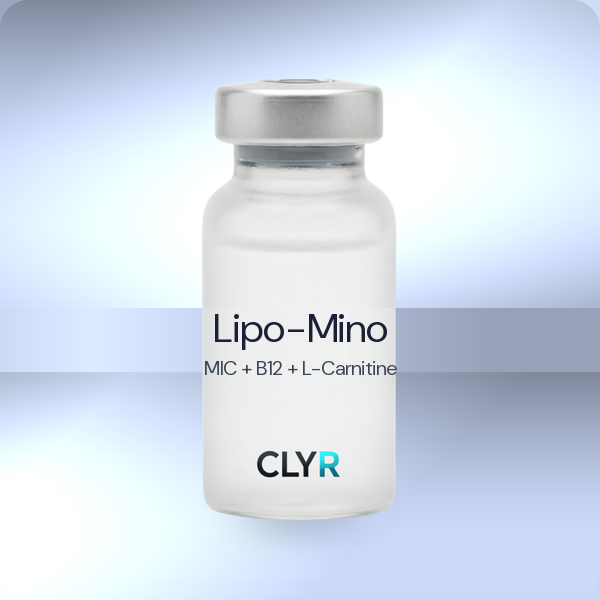
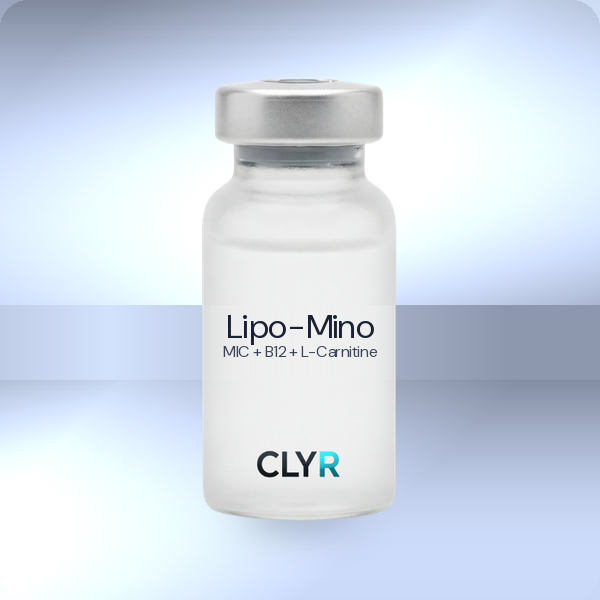
MICC/Lipo-Mino audit fixes (marketing): (1) Rolled canonical nav onto micc.html + lipo-mino.html (were on old drifted nav with Contact link, no megamenus, wrong Get Started URL); micc=daily-wellness active, lipo-mino=weight-loss active. (2) Added Lipo-Mino + L-Carnitine card to All Treatments (welln

Changed region(s): [[0.33, 0.51, 0.66, 0.63], [0.66, 0.51, 1.0, 0.54], [0.24, 0.51, 0.33, 0.54]]

diff --git a/micc.html b/micc.html
@@ -56,16 +56,57 @@
 
 <nav class="nav" id="nav">
   <div class="nav-inner">
-    <a href="/"><svg class="nav-logo" viewBox="0 0 120 32" fill="none" xmlns="http://www.w3.org/2000/svg"><text x="0" y="26" font-family="DM Sans, sans-serif" font-weight="700" font-size="28" letter-spacing="-1"><tspan fill="#1A1A1A">CLY</tspan><tspan fill="#00B4C5">R</tspan></text></svg></a>
+    <a href="/" aria-label="CLYR Health home">
+      <svg class="nav-logo" viewBox="0 0 120 32" fill="none" xmlns="http://www.w3.org/2000/svg" height="32">
+        <text x="0" y="26" font-family="DM Sans, sans-serif" font-weight="700" font-size="28" letter-spacing="-1"><tspan fill="#1A1A1A">CLY</tspan><tspan fill="#00B4C5">R</tspan></text>
+      </svg>
+    </a>
     <div class="nav-links">
-      <a href="/weight-loss.html">Weight Loss</a>
-      <a href="/wellness.html#wellness">Daily Wellness</a>
-      <a href="/sexual-health.html">Sexual Health</a>
-      <a href="/journal/">Journal</a><a href="/contact.html">Contact</a>
+      <div class="nav-item" data-nav="weight-loss">
+        <a href="/weight-loss.html">Weight Loss <svg class="chev" width="10" height="10" viewBox="0 0 24 24" fill="none" stroke="currentColor" stroke-width="3" stroke-linecap="round"><polyline points="6 9 12 15 18 9"/></svg></a>
+        <div class="megamenu">
+          <div class="mm-grid">
+            <a href="/tirzepatide.html" class="mm-link"><img src="/img/tirzepatide.png" alt=""><span class="mm-link-text"><strong>Tirzepatide</strong><span>GLP-1 + GIP</span></span></a>
+            <a href="/semaglutide.html" class="mm-link"><img src="/img/semaglutide.png" alt=""><span class="mm-link-text"><strong>Semaglutide</strong><span>GLP-1</span></span></a>
+            <a href="/lipo-mino.html" class="mm-link"><img src="/img/vial-lipo-mino-new.png" alt=""><span class="mm-link-text"><strong>Lipo-Mino + L-Carnitine</strong><span>Fat metabolism</span></span></a>
+            <a href="/foundayo.html" class="mm-link"><img src="/img/foundayo-bottle.png" alt=""><span class="mm-link-text"><strong>Foundayo&reg;</strong><span>Oral GLP-1</span></span></a>
+          </div>
+          <div class="mm-footer"><span class="mm-count">Compounded &amp; brand-name options</span><a href="/weight-loss.html">Explore Weight Loss →</a></div>
+        </div>
+      </div>
+      <div class="nav-item nav-active" data-nav="daily-wellness">
+        <a href="/daily-wellness.html">Daily Wellness <svg class="chev" width="10" height="10" viewBox="0 0 24 24" fill="none" stroke="currentColor" stroke-width="3" stroke-linecap="round"><polyline points="6 9 12 15 18 9"/></svg></a>
+        <div class="megamenu">
+          <div class="mm-grid">
+            <a href="/nad.html" class="mm-link"><img src="/img/nad.png" alt=""><span class="mm-link-text"><strong>NAD+ Injections</strong><span>Cellular energy</span></span></a>
+            <a href="/sermorelin.html" class="mm-link"><img src="/img/sermorelin.png" alt=""><span class="mm-link-text"><strong>Sermorelin</strong><span>Growth hormone peptide</span></span></a>
+            <a href="/glutathione.html" class="mm-link"><img src="/img/glutathione.png" alt=""><span class="mm-link-text"><strong>Glutathione</strong><span>Antioxidant</span></span></a>
+            <a href="/micc.html" class="mm-link"><img src="/img/micc.png" alt=""><span class="mm-link-text"><strong>MICC + B12</strong><span>Metabolic support</span></span></a>
+          </div>
+          <div class="mm-footer"><span class="mm-count">4 wellness treatments</span><a href="/daily-wellness.html">Explore Wellness →</a></div>
+        </div>
+      </div>
+      <div class="nav-item" data-nav="sexual-health">
+        <a href="/sexual-health.html">Sexual Health <svg class="chev" width="10" height="10" viewBox="0 0 24 24" fill="none" stroke="currentColor" stroke-width="3" stroke-linecap="round"><polyline points="6 9 12 15 18 9"/></svg></a>
+        <div class="megamenu">
+          <div class="mm-grid">
+            <a href="/tadalafil.html" class="mm-link"><img src="/img/pill-tadalafil-tad25-new.png" alt=""><span class="mm-link-text"><strong>Tadalafil</strong><span>Daily ED tablet</span></span></a>
+            <a href="/sildenafil-gummy.html" class="mm-link"><img src="/img/gummy-sildenafil-square.png" alt=""><span class="mm-link-text"><strong>Sildenafil Gummy</strong><span>On-demand</span></span></a>
+            <a href="/sild-tadal-oxy.html" class="mm-link"><img src="/img/sild-tadal-oxy-square.png" alt=""><span class="mm-link-text"><strong>Combo ODT</strong><span>Triple-action</span></span></a>
+            <a href="/pt141.html" class="mm-link"><img src="/img/pt141-odt-rose.png" alt=""><span class="mm-link-text"><strong>PT-141</strong><span>Libido ODT</span></span></a>
+          </div>
+          <div class="mm-footer"><span class="mm-count">4 sexual health treatments</span><a href="/sexual-health.html">Explore Sexual Health →</a></div>
+        </div>
+      </div>
+      <a href="/wellness.html#wellness" data-nav="all-treatments">All Treatments</a>
+      <a href="/ivermectin.html" data-nav="ivermectin">Ivermectin</a>
+      <a href="/journal/" data-nav="journal">Journal</a>
       <a href="/portal/" class="nav-portal">Patient Portal</a>
-      <a href="/wellness.html" class="nav-cta">Get Started</a>
+      <a href="/wellness.html#wellness" class="nav-cta">Get Started</a>
     </div>
-    <button class="mobile-menu-btn" aria-label="Menu" onclick="document.getElementById('nav').classList.toggle('mobile-open')"><span></span><span></span><span></span></button>
+    <button class="mobile-menu-btn" aria-label="Menu" onclick="document.getElementById('nav').classList.toggle('mobile-open')">
+      <span></span><span></span><span></span>
+    </button>
   </div>
 </nav>
 
@@ -79,7 +120,7 @@
   <div class="product-info">
     <div class="product-category">Daily Wellness, Metabolism</div>
     <h1 class="product-title">MICC <span class="serif">+ B12.</span></h1>
-    <p class="product-subtitle">A compounded MICC injection — methionine, inositol, choline, and cyanocobalamin (B12) — for energy and fat metabolism. The classic lipotropic + B12 stack, often paired with GLP-1 protocols.</p>
+    <p class="product-subtitle">A compounded MICC injection with methionine, inositol, choline, and cyanocobalamin (B12), for energy and fat metabolism. The classic lipotropic + B12 stack, often paired with GLP-1 protocols.</p>
     <div class="product-price">
       <span class="amount">$149</span>
       <span class="period">/month</span>
@@ -90,7 +131,7 @@
       <svg width="18" height="18" viewBox="0 0 24 24" fill="none" stroke="currentColor" stroke-width="2.5" stroke-linecap="round" stroke-linejoin="round"><path d="M5 12h14M12 5l7 7-7 7"/></svg>
     </a>
     <div class="product-includes">
-      <div class="product-includes-item"><svg width="18" height="18" viewBox="0 0 24 24" fill="none" stroke="currentColor" stroke-width="2.5" stroke-linecap="round"><path d="M22 11.08V12a10 10 0 1 1-5.93-9.14"/><path d="M22 4 12 14.01l-3-3"/></svg>MICC + B12 vial (10ml — Methionine 25, Inositol 50, Choline 50, B12 0.33 mg/mL)</div>
+      <div class="product-includes-item"><svg width="18" height="18" viewBox="0 0 24 24" fill="none" stroke="currentColor" stroke-width="2.5" stroke-linecap="round"><path d="M22 11.08V12a10 10 0 1 1-5.93-9.14"/><path d="M22 4 12 14.01l-3-3"/></svg>MICC + B12 vial (10ml: Methionine 25, Inositol 50, Choline 50, B12 0.33 mg/mL)</div>
       <div class="product-includes-item"><svg width="18" height="18" viewBox="0 0 24 24" fill="none" stroke="currentColor" stroke-width="2.5" stroke-linecap="round"><path d="M22 11.08V12a10 10 0 1 1-5.93-9.14"/><path d="M22 4 12 14.01l-3-3"/></svg>Injection homekit (syringes + alcohol pads)</div>
       <div class="product-includes-item"><svg width="18" height="18" viewBox="0 0 24 24" fill="none" stroke="currentColor" stroke-width="2.5" stroke-linecap="round"><path d="M22 11.08V12a10 10 0 1 1-5.93-9.14"/><path d="M22 4 12 14.01l-3-3"/></svg>Licensed provider consultation included</div>
       <div class="product-includes-item"><svg width="18" height="18" viewBox="0 0 24 24" fill="none" stroke="currentColor" stroke-width="2.5" stroke-linecap="round"><path d="M22 11.08V12a10 10 0 1 1-5.93-9.14"/><path d="M22 4 12 14.01l-3-3"/></svg>Free expedited shipping</div>
@@ -102,7 +143,7 @@
 <section class="benefits">
   <div class="section-label">Benefits</div>
   <h2 class="section-heading">Energy and metabolism,<br>in one weekly <span class="serif">injection.</span></h2>
-  <p class="section-sub">The classic lipotropic stack — methionine, inositol, choline, and a real B12 boost — to support energy, focus, and how efficiently your body burns fat. A clean companion to any GLP-1 protocol.</p>
+  <p class="section-sub">The classic lipotropic stack of methionine, inositol, choline, and a real B12 boost, to support energy, focus, and how efficiently your body burns fat. A clean companion to any GLP-1 protocol.</p>
   <div class="benefits-grid">
     <div class="benefit-card"><div class="benefit-icon"><svg width="22" height="22" viewBox="0 0 24 24" fill="none" stroke="currentColor" stroke-width="2.5" stroke-linecap="round" stroke-linejoin="round" style="color:var(--teal)"><path d="M8.5 14.5A2.5 2.5 0 0 0 11 12c0-1.38-.5-2-1-3-1.072-2.143-.224-4.054 2-6 .5 2.5 2 4.9 4 6.5 2 1.6 3 3.5 3 5.5a7 7 0 1 1-14 0c0-1.153.433-2.294 1-3a2.5 2.5 0 0 0 2.5 2.5Z"/></svg></div><h3>Fat metabolism</h3><p>Methionine helps the body process and use fat as energy rather than storing it.</p></div>
     <div class="benefit-card"><div class="benefit-icon"><svg width="22" height="22" viewBox="0 0 24 24" fill="none" stroke="currentColor" stroke-width="2.5" stroke-linecap="round" stroke-linejoin="round" style="color:var(--teal)"><path d="M12 5a3 3 0 1 0-5.997.125 4 4 0 0 0-2.526 5.77 4 4 0 0 0 .556 6.588A4 4 0 1 0 12 18Z"/><path d="M12 5a3 3 0 1 1 5.997.125 4 4 0 0 1 2.526 5.77 4 4 0 0 1-.556 6.588A4 4 0 1 1 12 18Z"/><path d="M12 5v13"/></svg></div><h3>Inositol</h3><p>Supports insulin sensitivity and energy metabolism. Often used in PCOS and metabolic syndrome.</p></div>
@@ -133,7 +174,7 @@
   <div class="section-label">FAQs</div>
   <h2 class="section-heading">Common <span class="serif">questions.</span></h2>
   <div class="faq-item"><button class="faq-q">What does MICC stand for?<svg width="22" height="22" viewBox="0 0 24 24" fill="none" stroke="currentColor" stroke-width="2.5" stroke-linecap="round"><line x1="12" y1="5" x2="12" y2="19"/><line x1="5" y1="12" x2="19" y2="12"/></svg></button><div class="faq-a"><p>Methionine, Inositol, Choline, and Cyanocobalamin (B12). Each plays a different role in fat metabolism, liver health, and energy.</p></div></div>
-  <div class="faq-item"><button class="faq-q">Is this a weight loss drug?<svg width="22" height="22" viewBox="0 0 24 24" fill="none" stroke="currentColor" stroke-width="2.5" stroke-linecap="round"><line x1="12" y1="5" x2="12" y2="19"/><line x1="5" y1="12" x2="19" y2="12"/></svg></button><div class="faq-a"><p>MICC + B12 is not a weight loss drug like GLP-1 medications. It's a metabolic and energy support injection — methionine, inositol, choline, and B12 — that helps the body process fat more efficiently. Many patients use it as a companion to their GLP-1 protocol, not as a standalone weight loss treatment.</p></div></div>
+  <div class="faq-item"><button class="faq-q">Is this a weight loss drug?<svg width="22" height="22" viewBox="0 0 24 24" fill="none" stroke="currentColor" stroke-width="2.5" stroke-linecap="round"><line x1="12" y1="5" x2="12" y2="19"/><line x1="5" y1="12" x2="19" y2="12"/></svg></button><div class="faq-a"><p>MICC + B12 is not a weight loss drug like GLP-1 medications. It's a metabolic and energy support injection with methionine, inositol, choline, and B12 that helps the body process fat more efficiently. Many patients use it as a companion to their GLP-1 protocol, not as a standalone weight loss treatment.</p></div></div>
   <div class="faq-item"><button class="faq-q">Can I use this with my Tirzepatide or Semaglutide?<svg width="22" height="22" viewBox="0 0 24 24" fill="none" stroke="currentColor" stroke-width="2.5" stroke-linecap="round"><line x1="12" y1="5" x2="12" y2="19"/><line x1="5" y1="12" x2="19" y2="12"/></svg></button><div class="faq-a"><p>Yes. MICC + B12 is commonly used alongside GLP-1 medications. Talk to your provider about timing, most patients separate injections by a day or two.</p></div></div>
   <div class="faq-item"><button class="faq-q">How often do I inject?<svg width="22" height="22" viewBox="0 0 24 24" fill="none" stroke="currentColor" stroke-width="2.5" stroke-linecap="round"><line x1="12" y1="5" x2="12" y2="19"/><line x1="5" y1="12" x2="19" y2="12"/></svg></button><div class="faq-a"><p>Typically once weekly, though some protocols use twice-weekly dosing. Your provider will recommend based on your goals.</p></div></div>
   <div class="faq-item"><button class="faq-q">What are the side effects?<svg width="22" height="22" viewBox="0 0 24 24" fill="none" stroke="currentColor" stroke-width="2.5" stroke-linecap="round"><line x1="12" y1="5" x2="12" y2="19"/><line x1="5" y1="12" x2="19" y2="12"/></svg></button><div class="faq-a"><p>Most common are mild discomfort at the injection site. Some patients report a flushed feeling or mild nausea. Serious side effects are rare.</p></div></div>

diff --git a/lipo-mino.html b/lipo-mino.html
@@ -56,16 +56,57 @@
 
 <nav class="nav" id="nav">
   <div class="nav-inner">
-    <a href="/"><svg class="nav-logo" viewBox="0 0 120 32" fill="none" xmlns="http://www.w3.org/2000/svg"><text x="0" y="26" font-family="DM Sans, sans-serif" font-weight="700" font-size="28" letter-spacing="-1"><tspan fill="#1A1A1A">CLY</tspan><tspan fill="#00B4C5">R</tspan></text></svg></a>
+    <a href="/" aria-label="CLYR Health home">
+      <svg class="nav-logo" viewBox="0 0 120 32" fill="none" xmlns="http://www.w3.org/2000/svg" height="32">
+        <text x="0" y="26" font-family="DM Sans, sans-serif" font-weight="700" font-size="28" letter-spacing="-1"><tspan fill="#1A1A1A">CLY</tspan><tspan fill="#00B4C5">R</tspan></text>
+      </svg>
+    </a>
     <div class="nav-links">
-      <a href="/weight-loss.html">Weight Loss</a>
-      <a href="/wellness.html#wellness">Daily Wellness</a>
-      <a href="/sexual-health.html">Sexual Health</a>
-      <a href="/journal/">Journal</a><a href="/contact.html">Contact</a>
+      <div class="nav-item nav-active" data-nav="weight-loss">
+        <a href="/weight-loss.html">Weight Loss <svg class="chev" width="10" height="10" viewBox="0 0 24 24" fill="none" stroke="currentColor" stroke-width="3" stroke-linecap="round"><polyline points="6 9 12 15 18 9"/></svg></a>
+        <div class="megamenu">
+          <div class="mm-grid">
+            <a href="/tirzepatide.html" class="mm-link"><img src="/img/tirzepatide.png" alt=""><span class="mm-link-text"><strong>Tirzepatide</strong><span>GLP-1 + GIP</span></span></a>
+            <a href="/semaglutide.html" class="mm-link"><img src="/img/semaglutide.png" alt=""><span class="mm-link-text"><strong>Semaglutide</strong><span>GLP-1</span></span></a>
+            <a href="/lipo-mino.html" class="mm-link"><img src="/img/vial-lipo-mino-new.png" alt=""><span class="mm-link-text"><strong>Lipo-Mino + L-Carnitine</strong><span>Fat metabolism</span></span></a>
+            <a href="/foundayo.html" class="mm-link"><img src="/img/foundayo-bottle.png" alt=""><span class="mm-link-text"><strong>Foundayo&reg;</strong><span>Oral GLP-1</span></span></a>
+          </div>
+          <div class="mm-footer"><span class="mm-count">Compounded &amp; brand-name options</span><a href="/weight-loss.html">Explore Weight Loss →</a></div>
+        </div>
+      </div>
+      <div class="nav-item" data-nav="daily-wellness">
+        <a href="/daily-wellness.html">Daily Wellness <svg class="chev" width="10" height="10" viewBox="0 0 24 24" fill="none" stroke="currentColor" stroke-width="3" stroke-linecap="round"><polyline points="6 9 12 15 18 9"/></svg></a>
+        <div class="megamenu">
+          <div class="mm-grid">
+            <a href="/nad.html" class="mm-link"><img src="/img/nad.png" alt=""><span class="mm-link-text"><strong>NAD+ Injections</strong><span>Cellular energy</span></span></a>
+            <a href="/sermorelin.html" class="mm-link"><img src="/img/sermorelin.png" alt=""><span class="mm-link-text"><strong>Sermorelin</strong><span>Growth hormone peptide</span></span></a>
+            <a href="/glutathione.html" class="mm-link"><img src="/img/glutathione.png" alt=""><span class="mm-link-text"><strong>Glutathione</strong><span>Antioxidant</span></span></a>
+            <a href="/micc.html" class="mm-link"><img src="/img/micc.png" alt=""><span class="mm-link-text"><strong>MICC + B12</strong><span>Metabolic support</span></span></a>
+          </div>
+          <div class="mm-footer"><span class="mm-count">4 wellness treatments</span><a href="/daily-wellness.html">Explore Wellness →</a></div>
+        </div>
+      </div>
+      <div class="nav-item" data-nav="sexual-health">
+        <a href="/sexual-health.html">Sexual Health <svg class="chev" width="10" height="10" viewBox="0 0 24 24" fill="none" stroke="currentColor" stroke-width="3" stroke-linecap="round"><polyline points="6 9 12 15 18 9"/></svg></a>
+        <div class="megamenu">
+          <div class="mm-grid">
+            <a href="/tadalafil.html" class="mm-link"><img src="/img/pill-tadalafil-tad25-new.png" alt=""><span class="mm-link-text"><strong>Tadalafil</strong><span>Daily ED tablet</span></span></a>
+            <a href="/sildenafil-gummy.html" class="mm-link"><img src="/img/gummy-sildenafil-square.png" alt=""><span class="mm-link-text"><strong>Sildenafil Gummy</strong><span>On-demand</span></span></a>
+            <a href="/sild-tadal-oxy.html" class="mm-link"><img src="/img/sild-tadal-oxy-square.png" alt=""><span class="mm-link-text"><strong>Combo ODT</strong><span>Triple-action</span></span></a>
+            <a href="/pt141.html" class="mm-link"><img src="/img/pt141-odt-rose.png" alt=""><span class="mm-link-text"><strong>PT-141</strong><span>Libido ODT</span></span></a>
+          </div>
+          <div class="mm-footer"><span class="mm-count">4 sexual health treatments</span><a href="/sexual-health.html">Explore Sexual Health →</a></div>
+        </div>
+      </div>
+      <a href="/wellness.html#wellness" data-nav="all-treatments">All Treatments</a>
+      <a href="/ivermectin.html" data-nav="ivermectin">Ivermectin</a>
+      <a href="/journal/" data-nav="journal">Journal</a>
       <a href="/portal/" class="nav-portal">Patient Portal</a>
-      <a href="/wellness.html" class="nav-cta">Get Started</a>
+      <a href="/wellness.html#wellness" class="nav-cta">Get Started</a>
     </div>
-    <button class="mobile-menu-btn" aria-label="Menu" onclick="document.getElementById('nav').classList.toggle('mobile-open')"><span></span><span></span><span></span></button>
+    <button class="mobile-menu-btn" aria-label="Menu" onclick="document.getElementById('nav').classList.toggle('mobile-open')">
+      <span></span><span></span><span></span>
+    </button>
   </div>
 </nav>
 

diff --git a/wellness.html b/wellness.html
@@ -150,7 +150,7 @@
 <section class="section alt" id="brand-glp1"><div class="si"><div class="section-sub">Weight Loss — Brand-Name FDA-Approved</div><h2>Brand-name <span class="serif">medications.</span></h2><p class="section-desc">Factory-sealed, FDA-approved medications from Eli Lilly and Novo Nordisk. Delivered to your door.</p><div class="pg">
 <a href="/foundayo.html" class="pc"><div class="ci" style="font-size:0;padding:12px"><div class="cb">NEW — No Needles</div><img src="/img/card/foundayo.png" alt="Foundayo oral GLP-1 tablet" loading="lazy"></div><div class="cd"><div class="cc">Eli Lilly · Oral GLP-1</div><h3>Foundayo® (Orforglipron)</h3><p class="ds">First daily oral GLP-1 tablet. No injections, no refrigeration. Brand-name from Eli Lilly.</p><div class="pr">$299<span>/mo</span></div><div class="ct">Learn more →</div></div></a>
 <a href="/zepbound.html" class="pc"><div class="ci" style="font-size:0;padding:12px"><div class="cb">FDA Approved</div><img src="/img/card/zepbound.png" alt="Zepbound KwikPen" loading="lazy"></div><div class="cd"><div class="cc">Eli Lilly · KwikPen</div><h3>Zepbound® (Tirzepatide)</h3><p class="ds">FDA-approved tirzepatide injection pen. Pre-filled, no mixing. All six doses.</p><div class="pr">$499<span>/mo</span></div><div class="ct">Learn more →</div></div></a>
-<a href="/wegovy-tablets.html" class="pc"><div class="ci" style="font-size:0;padding:12px"><div class="cb">No Needles</div><img src="/img/card/wegovy.png" alt="Wegovy oral tablet" loading="lazy"></div><div class="cd"><div class="cc">Novo Nordisk · Oral</div><h3>Wegovy® Tablets</h3><p class="ds">Daily oral semaglutide for weight management. No injections needed.</p><div class="pr">$299<span>/mo</span></div><div class="ct">Learn more →</div></div></a>
+<a href="/wegovy-tablets.html" class="pc"><div class="ci" style="font-size:0;padding:12px"><div class="cb">No Needles</div><img src="/img/card/wegovy.png" alt="Wegovy oral tablet" loading="lazy"></div><div class="cd"><div class="cc">Novo Nordisk · Oral</div><h3>Wegovy® Tablets</h3><p class="ds">Daily oral semaglutide for weight management. No injections needed.</p><div class="pr">$299<span>/mo</span></div><div class="ct">Learn more →</div></div></a><a href="/lipo-mino.html" class="pc"><div class="ci" style="font-size:0;padding:12px"><img src="/img/card/lipo-mino.png" alt="Lipo-Mino + L-Carnitine vial" loading="lazy"></div><div class="cd"><div class="cc">Lipotropic · Injectable</div><h3>Lipo-Mino + L-Carnitine</h3><p class="ds">MIC + B12 plus L-Carnitine and B-vitamins (B1, B2, B6) for fat metabolism and energy.</p><div class="pr">$149<span>/mo</span></div><div class="ct">Get started →</div></div></a>
 </div></div></section>
 
 <section class="section" id="compare-glp1"><div class="section-sub">All GLP-1 Treatments</div><h2>Compare every GLP-1 <span class="serif">we offer.</span></h2><p class="section-desc">Compounded and brand-name treatments side by side. Pick the one that fits your goals, schedule, and budget.</p>